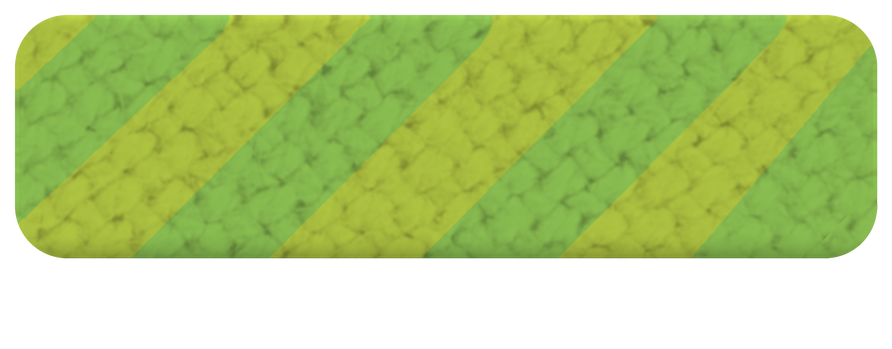
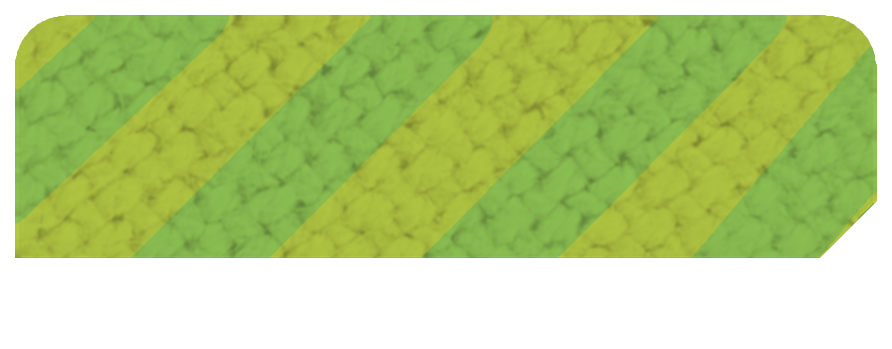
Size the name plate to the name and return PLAY to its own shape
The plate and XP bar now end just past the tag, so a short name leaves no empty space.
PLAY is back to its art and size, with only its floor repainted as one clean gradient.

Changed region(s): [[0.0, 0.5444, 0.9989, 0.745], [0.9383, 0.0573, 0.9686, 0.086]]

diff --git a/Assets/TumbangPreso/Runtime/UI/Hub/HubHome.cs b/Assets/TumbangPreso/Runtime/UI/Hub/HubHome.cs
@@ -37,6 +37,7 @@ namespace TumbangPreso.UI.Hub
         private Image _xpFill, _avatar, _modePoster;
         private HubButton _play;
         private GameObject _skillNotice, _taskNotice;
+        private HubPlateFit _plateFit;
         private HubBoard.LabelSpec _nameSpec, _tagSpec, _modeSpec, _playSpec;
         /// <summary>Board units: how far the name drops to centre on the hexagon, the tag's size, and the line's width out to the XP bar's right edge.</summary>
         private const float NameDrop = 11f, TagSize = 18f, NameLineRoom = 208f;
@@ -81,7 +82,6 @@ namespace TumbangPreso.UI.Hub
             var nameLine = _name.GetComponent<BoardBaseline>();
             if (nameLine != null) _tag.GetComponent<BoardBaseline>().FromTop = nameLine.FromTop;
             _tagSpec = new HubBoard.LabelSpec { size = TagSize, w = NameLineRoom };
-            _tag.gameObject.AddComponent<HubTagBesideName>().Name = _name;
             HubBoard.Picture(plateFace, plateGroup, "xp_track", "XpTrack");
             var fill = HubBoard.Picture(plateFace, plateGroup, "xp_fill", "XpFill");
             _xpFill = fill.GetComponent<Image>();
@@ -91,6 +91,8 @@ namespace TumbangPreso.UI.Hub
             var barber = Resources.Load<Shader>("Shaders/XpBarber");
             if (barber != null && !HubStyle.ReducedMotion) _xpFill.material = new Material(barber);
             _xpLabel = HubBoard.Lettering(plateFace, plateGroup, "xp", "XpLabel");
+            _plateFit = plate.gameObject.AddComponent<HubPlateFit>();
+            _plateFit.Bind(_name, _tag, plate.GetComponent<RectTransform>(), plateFace, plate.transform.Find("Slab") as RectTransform, plateFace.Find("XpTrack") as RectTransform, _xpFill, _xpLabel.rectTransform);
             HubBoard.Feel(plate, plateFace, HubBoard.Depth("name_plate"), 0.3f, false, hex);
             HubSlap.On(plate.transform, 0.04f, -2);
 
@@ -241,13 +243,13 @@ namespace TumbangPreso.UI.Hub
                         : !string.IsNullOrWhiteSpace(settings.PlayerName) ? settings.PlayerName : "PLAYER";
             string tag = account != null ? account.Discriminator : "";
             HubBoard.SetWords(_tag, account != null && account.IsGuest ? "GUEST" : string.IsNullOrEmpty(tag) ? "OFFLINE" : "#" + tag, _tagSpec);
-            HubBoard.SetWords(_name, name, _nameSpec, NameLineRoom - HubTagBesideName.Gap - _tag.preferredWidth * 0.5f);
+            HubBoard.SetWords(_name, name, _nameSpec, NameLineRoom - HubPlateFit.Gap - _tag.preferredWidth * 0.5f);
 
             var profile = GameServices.Career?.Profile;
             int level = profile != null ? Mathf.Max(1, profile.Level) : 1;
             _level.text = level.ToString("00");
             float into = profile != null ? ProgressionRules.XpIntoLevel(profile.Xp) / (float)ProgressionRules.XpPerLevel : 0;
-            _xpFill.fillAmount = Mathf.Clamp01(into);
+            _plateFit.Into = Mathf.Clamp01(into);
 
             _avatar.sprite = Avatars.Get(string.IsNullOrEmpty(settings.AvatarId) ? Avatars.DefaultFor(name) : settings.AvatarId);
             _avatar.color = _avatar.sprite != null ? Color.white : new Color(0, 0, 0, 0);
@@ -303,26 +305,69 @@ namespace TumbangPreso.UI.Hub
         }
     }
 
-    /// <summary>Keeps the player's tag just after the name on the name's line, whatever size the name was fitted to. Never past the XP bar's right edge.</summary>
-    [RequireComponent(typeof(Text))]
-    public sealed class HubTagBesideName : MonoBehaviour
+    /// <summary>
+    /// ⚠ THE NAME PLATE IS AS LONG AS THE NAME (owner, 2026-11-02: a short name left a big empty space). The tag follows the name on its line, and the plate and XP bar end
+    /// the same distance past the tag. Plate and track are sliced so their corners keep their shape. The stripes are not, or they would squeeze: the fill keeps its size and only fills less of it.
+    /// </summary>
+    public sealed class HubPlateFit : MonoBehaviour
     {
         public const float Gap = 9f;
-        private const float RightEdge = 208f;
-        public Text Name;
-        private Text _tag;
-        private float _left;
+        /// <summary>Board units: the name line's longest run, and the most the plate may shrink, so the XP bar stays readable.</summary>
+        private const float LongestLine = 208f, MostShrink = 90f;
+        private const float CornerClear = 6f;
+        /// <summary>The XP bar's fill, 0 to 1, along the bar as it now is.</summary>
+        public float Into { get => _into; set { _into = value; Apply(); } }
+        public float Shrink { get; private set; }
+        private float _into;
+        private Text _name, _tag;
+        private RectTransform _root, _face, _slab, _track, _label;
+        private Image _fill;
+        private float _left, _rootWidth, _faceWidth, _slabWidth, _trackWidth, _labelX;
+        private string _seenName, _seenTag;
+        private int _seenSize = -1;
 
-        private void Start() { _left = Name != null ? Name.rectTransform.anchoredPosition.x : 0f; }
+        public void Bind(Text name, Text tag, RectTransform root, RectTransform face, RectTransform slab, RectTransform track, Image fill, RectTransform label)
+        {
+            _name = name; _tag = tag; _root = root; _face = face; _slab = slab; _track = track; _fill = fill; _label = label;
+            _left = name.rectTransform.anchoredPosition.x; _labelX = label.anchoredPosition.x;
+            _rootWidth = root.sizeDelta.x;
+            _faceWidth = Stretch(face, "name_plate_face", 80f); _slabWidth = Stretch(slab, "name_plate_slab", 80f); _trackWidth = Stretch(track, "xp_track", 30f);
+        }
+
+        /// <summary>Slices a board picture and holds it by its left edge, so it shortens from the right.</summary>
+        private static float Stretch(RectTransform rect, string sprite, float border)
+        {
+            var image = rect.GetComponent<Image>();
+            var art = HubBoard.Art(sprite);
+            image.sprite = Sprite.Create(art.texture, art.rect, new Vector2(0.5f, 0.5f), art.pixelsPerUnit, 0, SpriteMeshType.FullRect, Vector4.one * border);
+            image.type = Image.Type.Sliced;
+            float width = rect.sizeDelta.x;
+            rect.anchoredPosition -= new Vector2(width * rect.pivot.x, 0);
+            rect.pivot = new Vector2(0, rect.pivot.y);
+            return width;
+        }
 
         private void LateUpdate()
         {
-            if (Name == null) return;
-            if (_tag == null) _tag = GetComponent<Text>();
-            float tag = _tag.preferredWidth * 0.5f;
-            float x = Mathf.Min(_left + Name.preferredWidth * 0.5f + Gap, _left + RightEdge - tag);
-            var at = new Vector2(x, Name.rectTransform.anchoredPosition.y);
-            if (_tag.rectTransform.anchoredPosition != at) _tag.rectTransform.anchoredPosition = at;
+            if (_name == null || (_seenName == _name.text && _seenTag == _tag.text && _seenSize == _name.fontSize)) return;
+            _seenName = _name.text; _seenTag = _tag.text; _seenSize = _name.fontSize;
+            Apply();
+        }
+
+        private void Apply()
+        {
+            if (_name == null) return;
+            float name = _name.preferredWidth * 0.5f, tag = _tag.preferredWidth * 0.5f;
+            Shrink = Mathf.Clamp(LongestLine - (name + Gap + tag), 0f, MostShrink);
+            float x = Mathf.Min(_left + name + Gap, _left + LongestLine - tag);
+            _tag.rectTransform.anchoredPosition = new Vector2(x, _name.rectTransform.anchoredPosition.y);
+            _root.sizeDelta = new Vector2(_rootWidth - Shrink, _root.sizeDelta.y);
+            _face.sizeDelta = new Vector2(_faceWidth - Shrink, _face.sizeDelta.y);
+            _slab.sizeDelta = new Vector2(_slabWidth - Shrink, _slab.sizeDelta.y);
+            _track.sizeDelta = new Vector2(_trackWidth - Shrink, _track.sizeDelta.y);
+            _label.anchoredPosition = new Vector2(_labelX - Shrink * 0.5f, _label.anchoredPosition.y);
+            float bar = _trackWidth - Shrink;
+            _fill.fillAmount = Mathf.Min(_into * bar, bar - CornerClear) / _trackWidth;
         }
     }
 }

diff --git a/ArtSource/handmade-lobby/tools/refine_play_floor.py b/ArtSource/handmade-lobby/tools/refine_play_floor.py
@@ -1,67 +1,24 @@
-"""Redraws PLAY's slab and rounds its face, the way HOME's tiles are made (owner, 2026-11-02: no texture in its shadow, like the other buttons but better, smaller, with more depth, in colours that follow the knit).
+"""Repaints PLAY's floor (play_slab.png) as one clean gradient (owner, 2026-11-02: no texture in its shadow). Her shape and size stay; only the slab's colours change.
 
-The slab is a clean rounded plate set out to the lower right of the face, in darker greens taken from the face's stripes, dark on the left and lit on the right. The face shades it where they meet, its bottom edge turns under, and a soft shadow sits on the ground.
-board.json holds the button's size (8 per cent up, with room won from the shorter slab) and HubKnit its margins. Run from the repo root, after assemble_board.py, which restores her art. It reads her original face, so run it once.
+It starts just under the face in a green from the knit's own stripes, deepens evenly over the same height all along the button, and its last pixels turn under. The gradient follows the face's lower edge, chamfer included. Run from the repo root, after assemble_board.py, which restores her original floor.
 """
 import numpy as np
-from PIL import Image, ImageDraw, ImageFilter
+from PIL import Image
 
 D = 'Assets/TumbangPreso/Resources/UI/handmade-lobby/'
-W, H = 914, 309
-LEFT, TOP, RIGHT, BOTTOM, RADIUS = 18, 40, 901, 293, 52
-DARK, LIT = np.array((30, 98, 44.0)), np.array((98, 158, 48.0))
-SS = 4
+STOPS = [(0.0, (116, 168, 60)), (0.4, (84, 146, 54)), (0.8, (48, 112, 48)), (1.0, (30, 86, 42))]
 
-
-def rounded(box, size, radius=RADIUS):
-    mask = Image.new('L', (size[0] * SS, size[1] * SS), 0)
-    ImageDraw.Draw(mask).rounded_rectangle([v * SS for v in box], radius * SS, fill=255)
-    return mask.resize(size, Image.LANCZOS)
-
-
-# The face first: lower corners rounded like its top ones. The chamfer's missing corner, a little wider than the hole because its edge carries a pale fringe, is filled from one stripe period to the left.
-face = np.asarray(Image.open(D + 'play_face.png').convert('RGBA'), dtype=np.float32).copy()
-solid = face[..., 3] > 127
-rows, cols = np.nonzero(solid.any(axis=1))[0], np.nonzero(solid.any(axis=0))[0]
-top, bottom, left, right = rows.min(), rows.max(), cols.min(), cols.max()
-strip = face[top + 60, left + 8:right - 8, :3].mean(axis=1)
-strip = strip - strip.mean()
-period = 150 + int(np.argmax([float((strip[:-k] * strip[k:]).mean()) for k in range(150, 400)]))
-hole = np.asarray(Image.fromarray((face[..., 3] > 250).astype(np.uint8) * 255).filter(ImageFilter.MinFilter(15))) < 128
-for py in range(bottom - 70, bottom + 1):
-    for px in range(right - 70, right + 1):
-        if hole[py, px]:
-            face[py, px, :3] = face[py, px - period, :3]
-fh, fw = face.shape[:2]
-shape = rounded((left, top, right + 1, bottom + 1), (fw, fh))
-face[..., 3] = np.asarray(shape, dtype=np.float32)
-# Thickness: a soft light along its top edge, a soft shade along its bottom. The knit stays.
-ys = np.arange(fh)[:, None, None]
-lift = np.clip(1 - (ys - top) / 16, 0, 1) ** 2 * 0.1
-sink = np.clip(1 - (bottom - ys) / 26, 0, 1) ** 2 * 0.2
-face[..., :3] = np.clip(face[..., :3] * (1 + lift - sink), 0, 255)
-Image.fromarray(face.round().astype(np.uint8), 'RGBA').save(D + 'play_face.png')
-
-# The slab.
-plate = np.asarray(rounded((LEFT, TOP, RIGHT, BOTTOM), (W, H)), dtype=np.float32) / 255
-ground = Image.new('L', (W, H), 0)
-ImageDraw.Draw(ground).rounded_rectangle((LEFT + 4, TOP + 8, RIGHT - 2, BOTTOM + 5), RADIUS, fill=255)
-ground = np.asarray(ground.filter(ImageFilter.GaussianBlur(5)), dtype=np.float32) / 255 * 0.42
-
-x = np.clip((np.arange(W) - LEFT) / (RIGHT - LEFT), 0, 1)[None, :, None]
-x = x * x * (3 - 2 * x)
-rgb = DARK + (LIT - DARK) * x
-y = np.clip((np.arange(H) - (BOTTOM - 26)) / 26, 0, 1)[:, None, None]
-rgb = rgb * (1 - 0.24 * y * y)
-# The face's shadow on the slab, thrown to the lower right, so the face stands off it.
-cast = Image.new('L', (W, H), 0)
-cast.paste(shape, (5, 8))
-cast = np.asarray(cast.filter(ImageFilter.GaussianBlur(9)), dtype=np.float32)[..., None] / 255
-rgb = rgb * (1 - 0.42 * cast)
-
-shade = np.array((30, 10, 16.0))
-alpha = plate + ground * (1 - plate)
-colour = (rgb * plate[..., None] + shade * (ground * (1 - plate))[..., None]) / np.maximum(alpha, 1e-4)[..., None]
-out = np.dstack((np.clip(colour, 0, 255), alpha * 255)).round().astype(np.uint8)
-Image.fromarray(out, 'RGBA').save(D + 'play_slab.png')
-print('face', left, top, right, bottom, 'stripe period', period)
+face = np.asarray(Image.open(D + 'play_face.png').convert('RGBA'))[..., 3] > 127
+slab = np.asarray(Image.open(D + 'play_slab.png').convert('RGBA')).copy()
+h, w = face.shape
+bottom = np.nonzero((slab[..., 3] > 127).any(axis=1))[0].max()
+floor = np.nonzero(face.any(axis=1))[0].max() + 1
+ys = np.arange(h)[:, None]
+tops = np.array([np.nonzero(face[:, x])[0].max() + 1 if face[:, x].any() else floor for x in range(w)])
+# Under the flat run of the face this is one even band. In the chamfer it starts higher, on the same colours.
+t = np.clip((ys - tops[None, :]) / np.maximum(1, bottom - tops[None, :]), 0, 1)
+at = [s[0] for s in STOPS]
+for c in range(3):
+    slab[..., c] = np.round(np.interp(t, at, [s[1][c] for s in STOPS])).astype(np.uint8)
+Image.fromarray(slab, 'RGBA').save(D + 'play_slab.png')
+print('floor rows', floor, 'to', bottom)

diff --git a/Assets/TumbangPreso/Tests/PlayMode/HubSceneVideoTests.cs b/Assets/TumbangPreso/Tests/PlayMode/HubSceneVideoTests.cs
@@ -273,7 +273,17 @@ namespace TumbangPreso.PlayTests
             var fill = System.Array.Find(hub.Canvas.GetComponentsInChildren<Image>(), i => i.name == "XpFill");
             Assert.AreEqual("TumbangPreso/XpBarber", fill.material.shader.name);
             Assert.AreEqual(0.15f, fill.material.GetFloat("_Speed"), 0.001f);
-            fill.fillAmount = 0.65f;
+            var fit = hub.Canvas.GetComponentInChildren<HubPlateFit>();
+            HubBoard.SetWords(name, "Al", HubBoard.Label("Tump_ID"));
+            yield return null;
+            float small = fit.Shrink;
+            HubBoard.SetWords(name, "Longplayername", HubBoard.Label("Tump_ID"), 150f);
+            yield return null;
+            Assert.Greater(small, fit.Shrink, "The plate did not follow the name's length.");
+            yield return TumpUiCapture.Capture("Hub-Plate-LongName", hub.Canvas, 1920, 1080, checkPalette: false);
+            HubBoard.SetWords(name, "Player", HubBoard.Label("Tump_ID"));
+            yield return null;
+            fit.Into = 0.65f;
             yield return TumpUiCapture.Capture("Hub-Plate-Stripes-A", hub.Canvas, 1920, 1080, checkPalette: false);
             yield return new WaitForSecondsRealtime(2f);
             yield return TumpUiCapture.Capture("Hub-Plate-Stripes-B", hub.Canvas, 1920, 1080, checkPalette: false);

diff --git a/Assets/TumbangPreso/Runtime/UI/Hub/HubKnit.cs b/Assets/TumbangPreso/Runtime/UI/Hub/HubKnit.cs
@@ -276,7 +276,7 @@ namespace TumbangPreso.UI.Hub
             {"tile_hero_face", new Vector4(14, 15, 13, 14)}, {"tile_hero_slab", new Vector4(6, 6, 6, 6)},
             {"tile_task_face", new Vector4(15, 14, 14, 14)}, {"tile_task_slab", new Vector4(6, 6, 6, 6)},
             {"tile_shop_face", new Vector4(14, 14, 12, 13)}, {"tile_shop_slab", new Vector4(6, 6, 6, 6)},
-            {"play_face", new Vector4(15, 15, 15, 91)}, {"play_slab", new Vector4(15, 15, 37, 15)},
+            {"play_face", new Vector4(15, 15, 15, 91)}, {"play_slab", new Vector4(15, 15, 15, 17)},
             {"name_plate_face", new Vector4(11, 10, 10, 27)}, {"name_plate_slab", new Vector4(11, 10, 10, 9)},
             {"menu_button_face", new Vector4(10, 9, 10, 28)}, {"menu_button_slab", new Vector4(10, 9, 10, 10)},
             {"currency_field", new Vector4(6, 6, 6, 6)},
